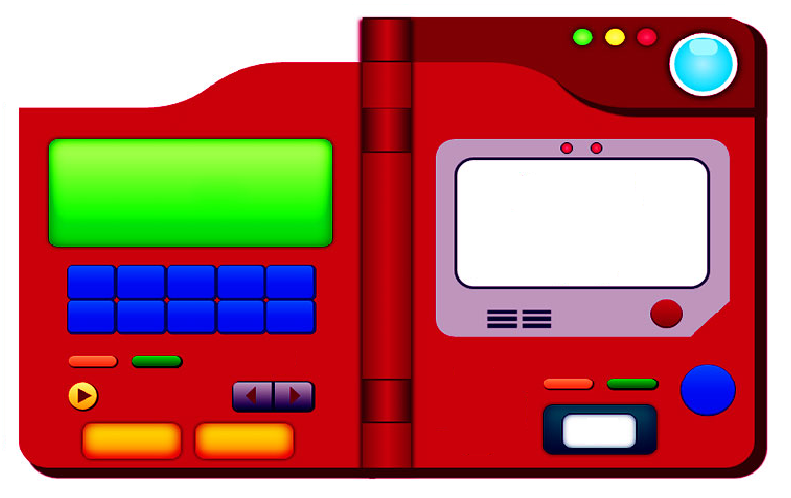
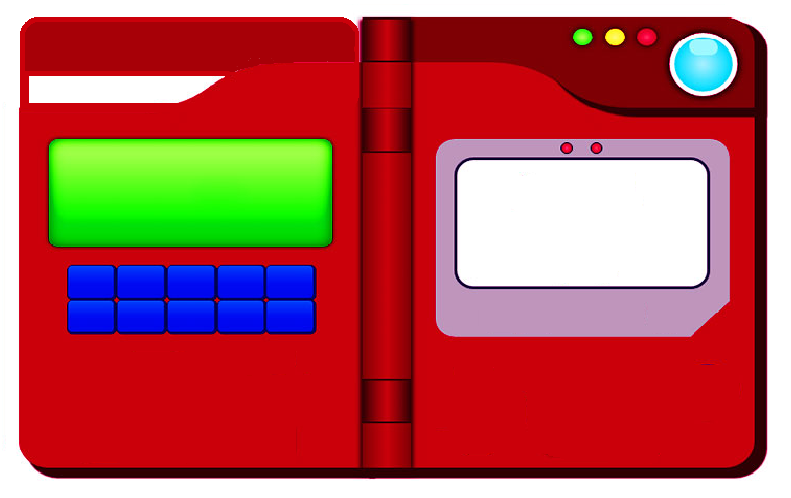
Agregando Incio de sesion v3

diff --git a/src/main/java/Graficos/Consola.java b/src/main/java/Graficos/Consola.java
@@ -101,10 +101,10 @@ public class Consola extends javax.swing.JFrame {
           PokemonImagen = new javax.swing.JPanel();
           Lid = new javax.swing.JLabel();
           btnRetroceder = new javax.swing.JButton();
-          jLabel5 = new javax.swing.JLabel();
           jLabel6 = new javax.swing.JLabel();
-          jComboBox1 = new javax.swing.JComboBox<>();
+          jButton1 = new javax.swing.JButton();
           RaFavoritos = new javax.swing.JRadioButton();
+          labelUsuario = new javax.swing.JLabel();
           fondo = new javax.swing.JLabel();
 
           setDefaultCloseOperation(javax.swing.WindowConstants.EXIT_ON_CLOSE);
@@ -135,13 +135,14 @@ public class Consola extends javax.swing.JFrame {
           Lexperiencia.setText("***");
           getContentPane().add(Lexperiencia, new org.netbeans.lib.awtextra.AbsoluteConstraints(230, 270, -1, -1));
 
-          btnInciar.setText("==>");
+          btnInciar.setIcon(new javax.swing.ImageIcon("C:\\Users\\anner\\Desktop\\Universidad Mariano Galvez\\Cuarto Semestre\\Programacion II\\Homeworks\\MiniPokedex\\src\\main\\java\\Imagenes\\botonderecha.png")); // NOI18N
+          btnInciar.setCursor(new java.awt.Cursor(java.awt.Cursor.HAND_CURSOR));
           btnInciar.addActionListener(new java.awt.event.ActionListener() {
                public void actionPerformed(java.awt.event.ActionEvent evt) {
                     btnInciarActionPerformed(evt);
                }
           });
-          getContentPane().add(btnInciar, new org.netbeans.lib.awtextra.AbsoluteConstraints(480, 410, -1, -1));
+          getContentPane().add(btnInciar, new org.netbeans.lib.awtextra.AbsoluteConstraints(490, 400, 40, 30));
 
           jLabel1.setFont(new java.awt.Font("OCR A Extended", 0, 12)); // NOI18N
           jLabel1.setHorizontalAlignment(javax.swing.SwingConstants.CENTER);
@@ -181,45 +182,49 @@ public class Consola extends javax.swing.JFrame {
           Lid.setFont(new java.awt.Font("OCR A Extended", 1, 12)); // NOI18N
           Lid.setHorizontalAlignment(javax.swing.SwingConstants.CENTER);
           Lid.setText("*");
-          getContentPane().add(Lid, new org.netbeans.lib.awtextra.AbsoluteConstraints(580, 410, 30, 20));
+          getContentPane().add(Lid, new org.netbeans.lib.awtextra.AbsoluteConstraints(690, 50, 30, 20));
 
-          btnRetroceder.setText("<==");
+          btnRetroceder.setIcon(new javax.swing.ImageIcon("C:\\Users\\anner\\Desktop\\Universidad Mariano Galvez\\Cuarto Semestre\\Programacion II\\Homeworks\\MiniPokedex\\src\\main\\java\\Imagenes\\botonizquierdo.png")); // NOI18N
+          btnRetroceder.setCursor(new java.awt.Cursor(java.awt.Cursor.HAND_CURSOR));
           btnRetroceder.addActionListener(new java.awt.event.ActionListener() {
                public void actionPerformed(java.awt.event.ActionEvent evt) {
                     btnRetrocederActionPerformed(evt);
                }
           });
-          getContentPane().add(btnRetroceder, new org.netbeans.lib.awtextra.AbsoluteConstraints(420, 410, -1, -1));
-
-          jLabel5.setFont(new java.awt.Font("OCR A Extended", 1, 48)); // NOI18N
-          jLabel5.setHorizontalAlignment(javax.swing.SwingConstants.CENTER);
-          jLabel5.setText("+");
-          jLabel5.addMouseListener(new java.awt.event.MouseAdapter() {
-               public void mouseClicked(java.awt.event.MouseEvent evt) {
-                    jLabel5MouseClicked(evt);
-               }
-          });
-          getContentPane().add(jLabel5, new org.netbeans.lib.awtextra.AbsoluteConstraints(680, 351, 60, 60));
+          getContentPane().add(btnRetroceder, new org.netbeans.lib.awtextra.AbsoluteConstraints(440, 400, 40, 30));
 
           jLabel6.setFont(new java.awt.Font("OCR A Extended", 0, 14)); // NOI18N
           jLabel6.setHorizontalAlignment(javax.swing.SwingConstants.CENTER);
           jLabel6.setText("FAVORITOS");
           getContentPane().add(jLabel6, new org.netbeans.lib.awtextra.AbsoluteConstraints(662, 340, 90, -1));
 
-          jComboBox1.setModel(new javax.swing.DefaultComboBoxModel<>(new String[] { "Selecciona", "Rare", "Mountain", "rough terrain", "sea", "cave", "rough terrain", "grassland", "forest", "urban" }));
-          getContentPane().add(jComboBox1, new org.netbeans.lib.awtextra.AbsoluteConstraints(440, 70, 80, 30));
+          jButton1.setText("+");
+          jButton1.setActionCommand("");
+          jButton1.setBorder(new javax.swing.border.LineBorder(new java.awt.Color(0, 0, 0), 1, true));
+          jButton1.setFocusCycleRoot(true);
+          jButton1.addActionListener(new java.awt.event.ActionListener() {
+               public void actionPerformed(java.awt.event.ActionEvent evt) {
+                    jButton1ActionPerformed(evt);
+               }
+          });
+          getContentPane().add(jButton1, new org.netbeans.lib.awtextra.AbsoluteConstraints(690, 360, 30, 40));
 
           RaFavoritos.setText("Favoritos");
-          getContentPane().add(RaFavoritos, new org.netbeans.lib.awtextra.AbsoluteConstraints(450, 380, -1, -1));
+          getContentPane().add(RaFavoritos, new org.netbeans.lib.awtextra.AbsoluteConstraints(440, 360, -1, -1));
+
+          labelUsuario.setText("Usuario");
+          getContentPane().add(labelUsuario, new org.netbeans.lib.awtextra.AbsoluteConstraints(50, 80, 130, -1));
 
           fondo.setFont(new java.awt.Font("OCR A Extended", 1, 12)); // NOI18N
           fondo.setIcon(new javax.swing.ImageIcon("C:\\Users\\anner\\Desktop\\Universidad Mariano Galvez\\Cuarto Semestre\\Programacion II\\Homeworks\\MiniPokedex\\src\\main\\java\\Imagenes\\fondo1.1.png")); // NOI18N
-          getContentPane().add(fondo, new org.netbeans.lib.awtextra.AbsoluteConstraints(0, 0, 780, 480));
+          fondo.setCursor(new java.awt.Cursor(java.awt.Cursor.DEFAULT_CURSOR));
+          getContentPane().add(fondo, new org.netbeans.lib.awtextra.AbsoluteConstraints(0, 0, 790, 480));
 
           pack();
      }// </editor-fold>//GEN-END:initComponents
 
      private void btnInciarActionPerformed(java.awt.event.ActionEvent evt) {//GEN-FIRST:event_btnInciarActionPerformed
+
           dibujaElPokemonQueEstaEnLaPosicion(contador);
           metodo.TraerInformacion(contador);
           metodo.asignar(Lnombre, Laltura, Lpeso, Lespecie, Lcolor, Lhabitad, Lexperiencia, Lid);
@@ -235,45 +240,24 @@ public class Consola extends javax.swing.JFrame {
           //contador--;
      }//GEN-LAST:event_btnRetrocederActionPerformed
 
-     private void jLabel5MouseClicked(java.awt.event.MouseEvent evt) {//GEN-FIRST:event_jLabel5MouseClicked
-          // TODO add your handling code here:
-        
-          mu.setCorreo("annner@hotmail.com");
+     private void jButton1ActionPerformed(java.awt.event.ActionEvent evt) {//GEN-FIRST:event_jButton1ActionPerformed
+          // TODO add your handling code here:  
+          mu.setCorreo(mu.getCorreo());
           m.setId(Integer.valueOf(Lid.getText()));
           g.FavoritosAg(m, mu);
-     }//GEN-LAST:event_jLabel5MouseClicked
+     }//GEN-LAST:event_jButton1ActionPerformed
 
      /**
       * @param args the command line arguments
       */
      public static void main(String args[]) {
           /* Set the Nimbus look and feel */
-          //<editor-fold defaultstate="collapsed" desc=" Look and feel setting code (optional) ">
-          /* If Nimbus (introduced in Java SE 6) is not available, stay with the default look and feel.
-         * For details see http://download.oracle.com/javase/tutorial/uiswing/lookandfeel/plaf.html 
-           */
-          try {
-               for (javax.swing.UIManager.LookAndFeelInfo info : javax.swing.UIManager.getInstalledLookAndFeels()) {
-                    if ("Nimbus".equals(info.getName())) {
-                         javax.swing.UIManager.setLookAndFeel(info.getClassName());
-                         break;
-                    }
-               }
-          } catch (ClassNotFoundException ex) {
-               java.util.logging.Logger.getLogger(Consola.class.getName()).log(java.util.logging.Level.SEVERE, null, ex);
-          } catch (InstantiationException ex) {
-               java.util.logging.Logger.getLogger(Consola.class.getName()).log(java.util.logging.Level.SEVERE, null, ex);
-          } catch (IllegalAccessException ex) {
-               java.util.logging.Logger.getLogger(Consola.class.getName()).log(java.util.logging.Level.SEVERE, null, ex);
-          } catch (javax.swing.UnsupportedLookAndFeelException ex) {
-               java.util.logging.Logger.getLogger(Consola.class.getName()).log(java.util.logging.Level.SEVERE, null, ex);
-          }
-          //</editor-fold>
 
           /* Create and display the form */
           java.awt.EventQueue.invokeLater(new Runnable() {
                public void run() {
                     new Consola().setVisible(true);
+                    
                }
           });
      }
@@ -292,12 +276,12 @@ public class Consola extends javax.swing.JFrame {
      private javax.swing.JButton btnInciar;
      private javax.swing.JButton btnRetroceder;
      private javax.swing.JLabel fondo;
-     private javax.swing.JComboBox<String> jComboBox1;
+     private javax.swing.JButton jButton1;
      private javax.swing.JLabel jLabel1;
      private javax.swing.JLabel jLabel2;
      private javax.swing.JLabel jLabel3;
      private javax.swing.JLabel jLabel4;
-     private javax.swing.JLabel jLabel5;
      private javax.swing.JLabel jLabel6;
+     private javax.swing.JLabel labelUsuario;
      // End of variables declaration//GEN-END:variables
 }

diff --git a/src/main/java/Metodos/MetodosInicioSesion.java b/src/main/java/Metodos/MetodosInicioSesion.java
@@ -64,7 +64,7 @@ public class MetodosInicioSesion {
           PreparedStatement stmt = null;
           boolean correcto = false;
 
-          String Insert = "Insert into tb_usuarios (nombres, apellidos, correo, username, password, confirmpass, telefono) values (?,?,?,?,?,?,?)";
+          String Insert = "Insert into usuarios (nombre, apellidos, correo, contraseña) values (?,?,?,?)";
 
           try {
                conn = Conexion.OpenConection();
@@ -73,8 +73,7 @@ public class MetodosInicioSesion {
                stmt.setString(1, modelo.getNombres());
                stmt.setString(2, modelo.getApellidos());
                stmt.setString(3, modelo.getCorreo());
-               stmt.setString(5, modelo.getPassword());
-               stmt.setString(6, modelo.getConfirmpass());
+               stmt.setString(4, modelo.getPassword());
                stmt.execute();
 
                correcto = true;
@@ -93,7 +92,7 @@ public class MetodosInicioSesion {
           PreparedStatement stmt = null;
           ResultSet rs = null;
           boolean correcto = false;
-          String sql = "select *from tb_usuarios where username = '" + usuario + "'and password = '" + pass + "' ";
+          String sql = "select *from usuarios where correo = '" + usuario + "'and contraseña = '" + pass + "' ";
 
           try {
                conn = Conexion.OpenConection();

diff --git a/src/main/java/Graficos/Registro.java b/src/main/java/Graficos/Registro.java
@@ -7,6 +7,7 @@ package Graficos;
 
 import Datos.ModeloUsuarios;
 import Metodos.MetodosInicioSesion;
+import javax.swing.JOptionPane;
 
 /**
  *
@@ -153,11 +154,20 @@ public class Registro extends javax.swing.JFrame {
           m.setApellidos(txtApellidos.getText());
           if(me.ValidarCorreo(txtCorreo.getText())){
                m.setCorreo(txtCorreo.getText());
+          }else{
+               JOptionPane.showMessageDialog(null,"correo no valido");
           }
           if(me.CompararPass(txtPass.getText(), txtConfirmPass.getText())){
                m.setPassword(me.Encriptador(txtPass.getText(),10));
+          }else{
+               JOptionPane.showMessageDialog(null, "Las contrase;as no coinciden");
           }
+          if (me.registrar(m)) {
+                         JOptionPane.showMessageDialog(null, "Registro Exitosos");
           
+          }else{
+               JOptionPane.showMessageDialog(null,"Algo salio mal con el registro");
+          }
      }//GEN-LAST:event_jButton1ActionPerformed
 
      /**
